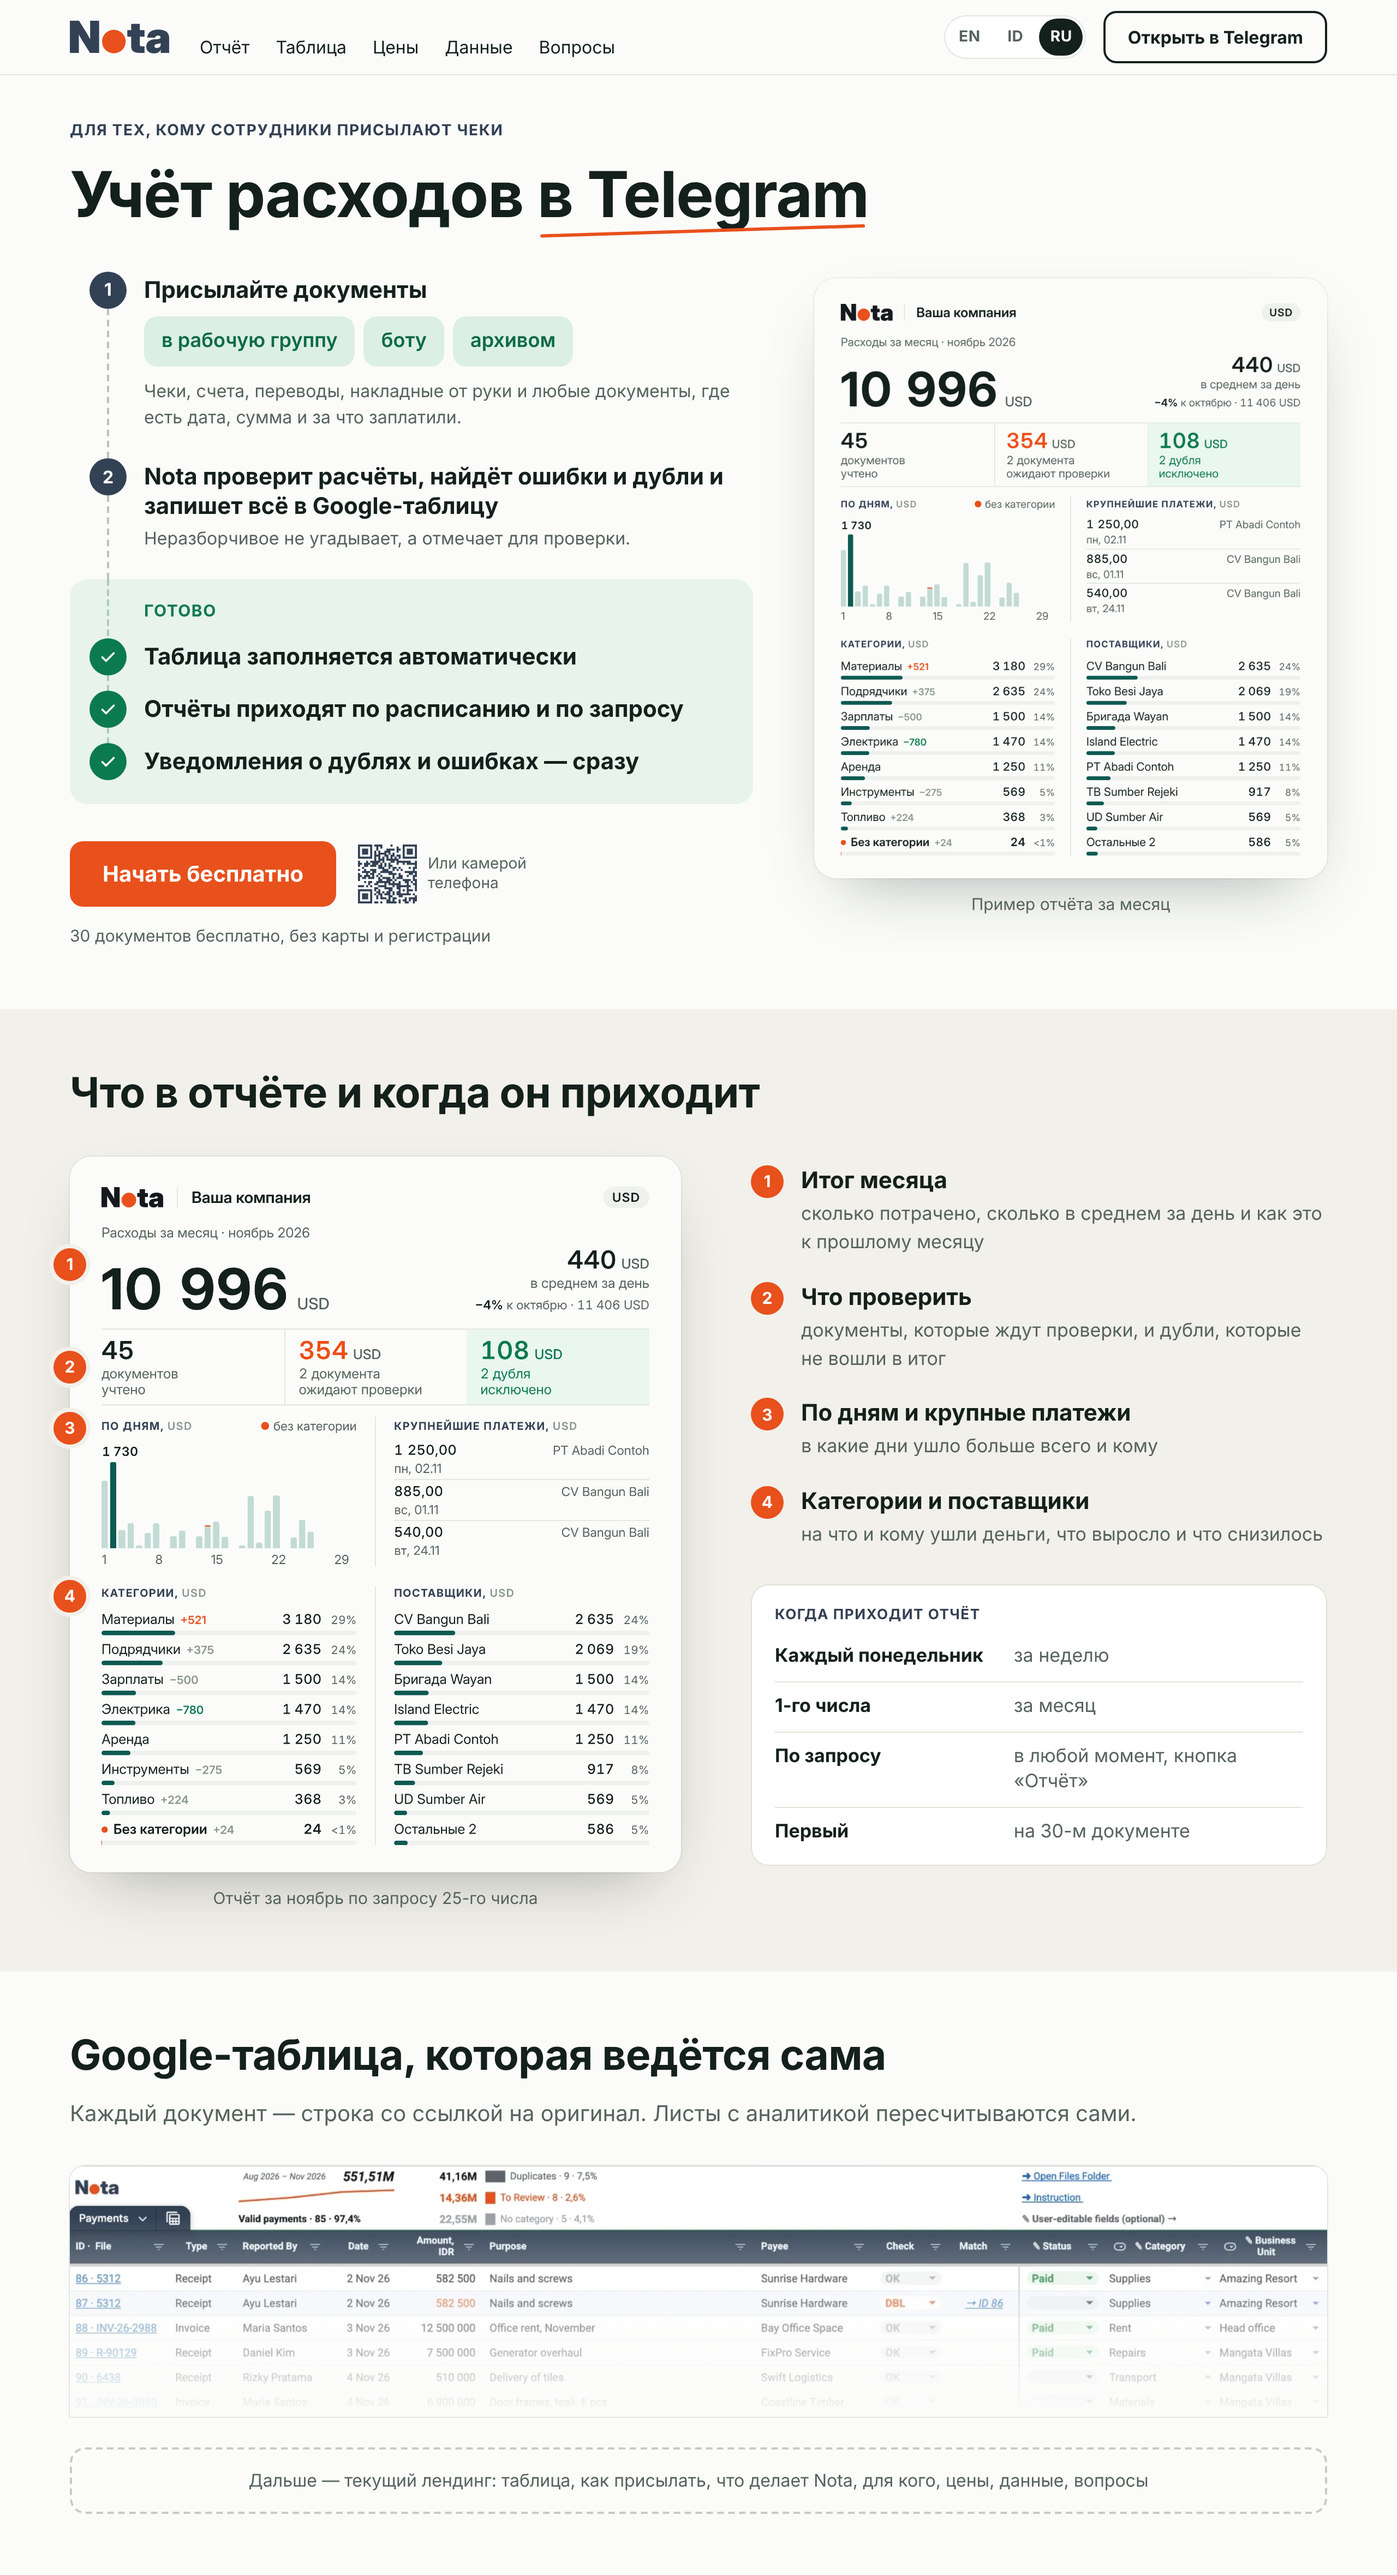
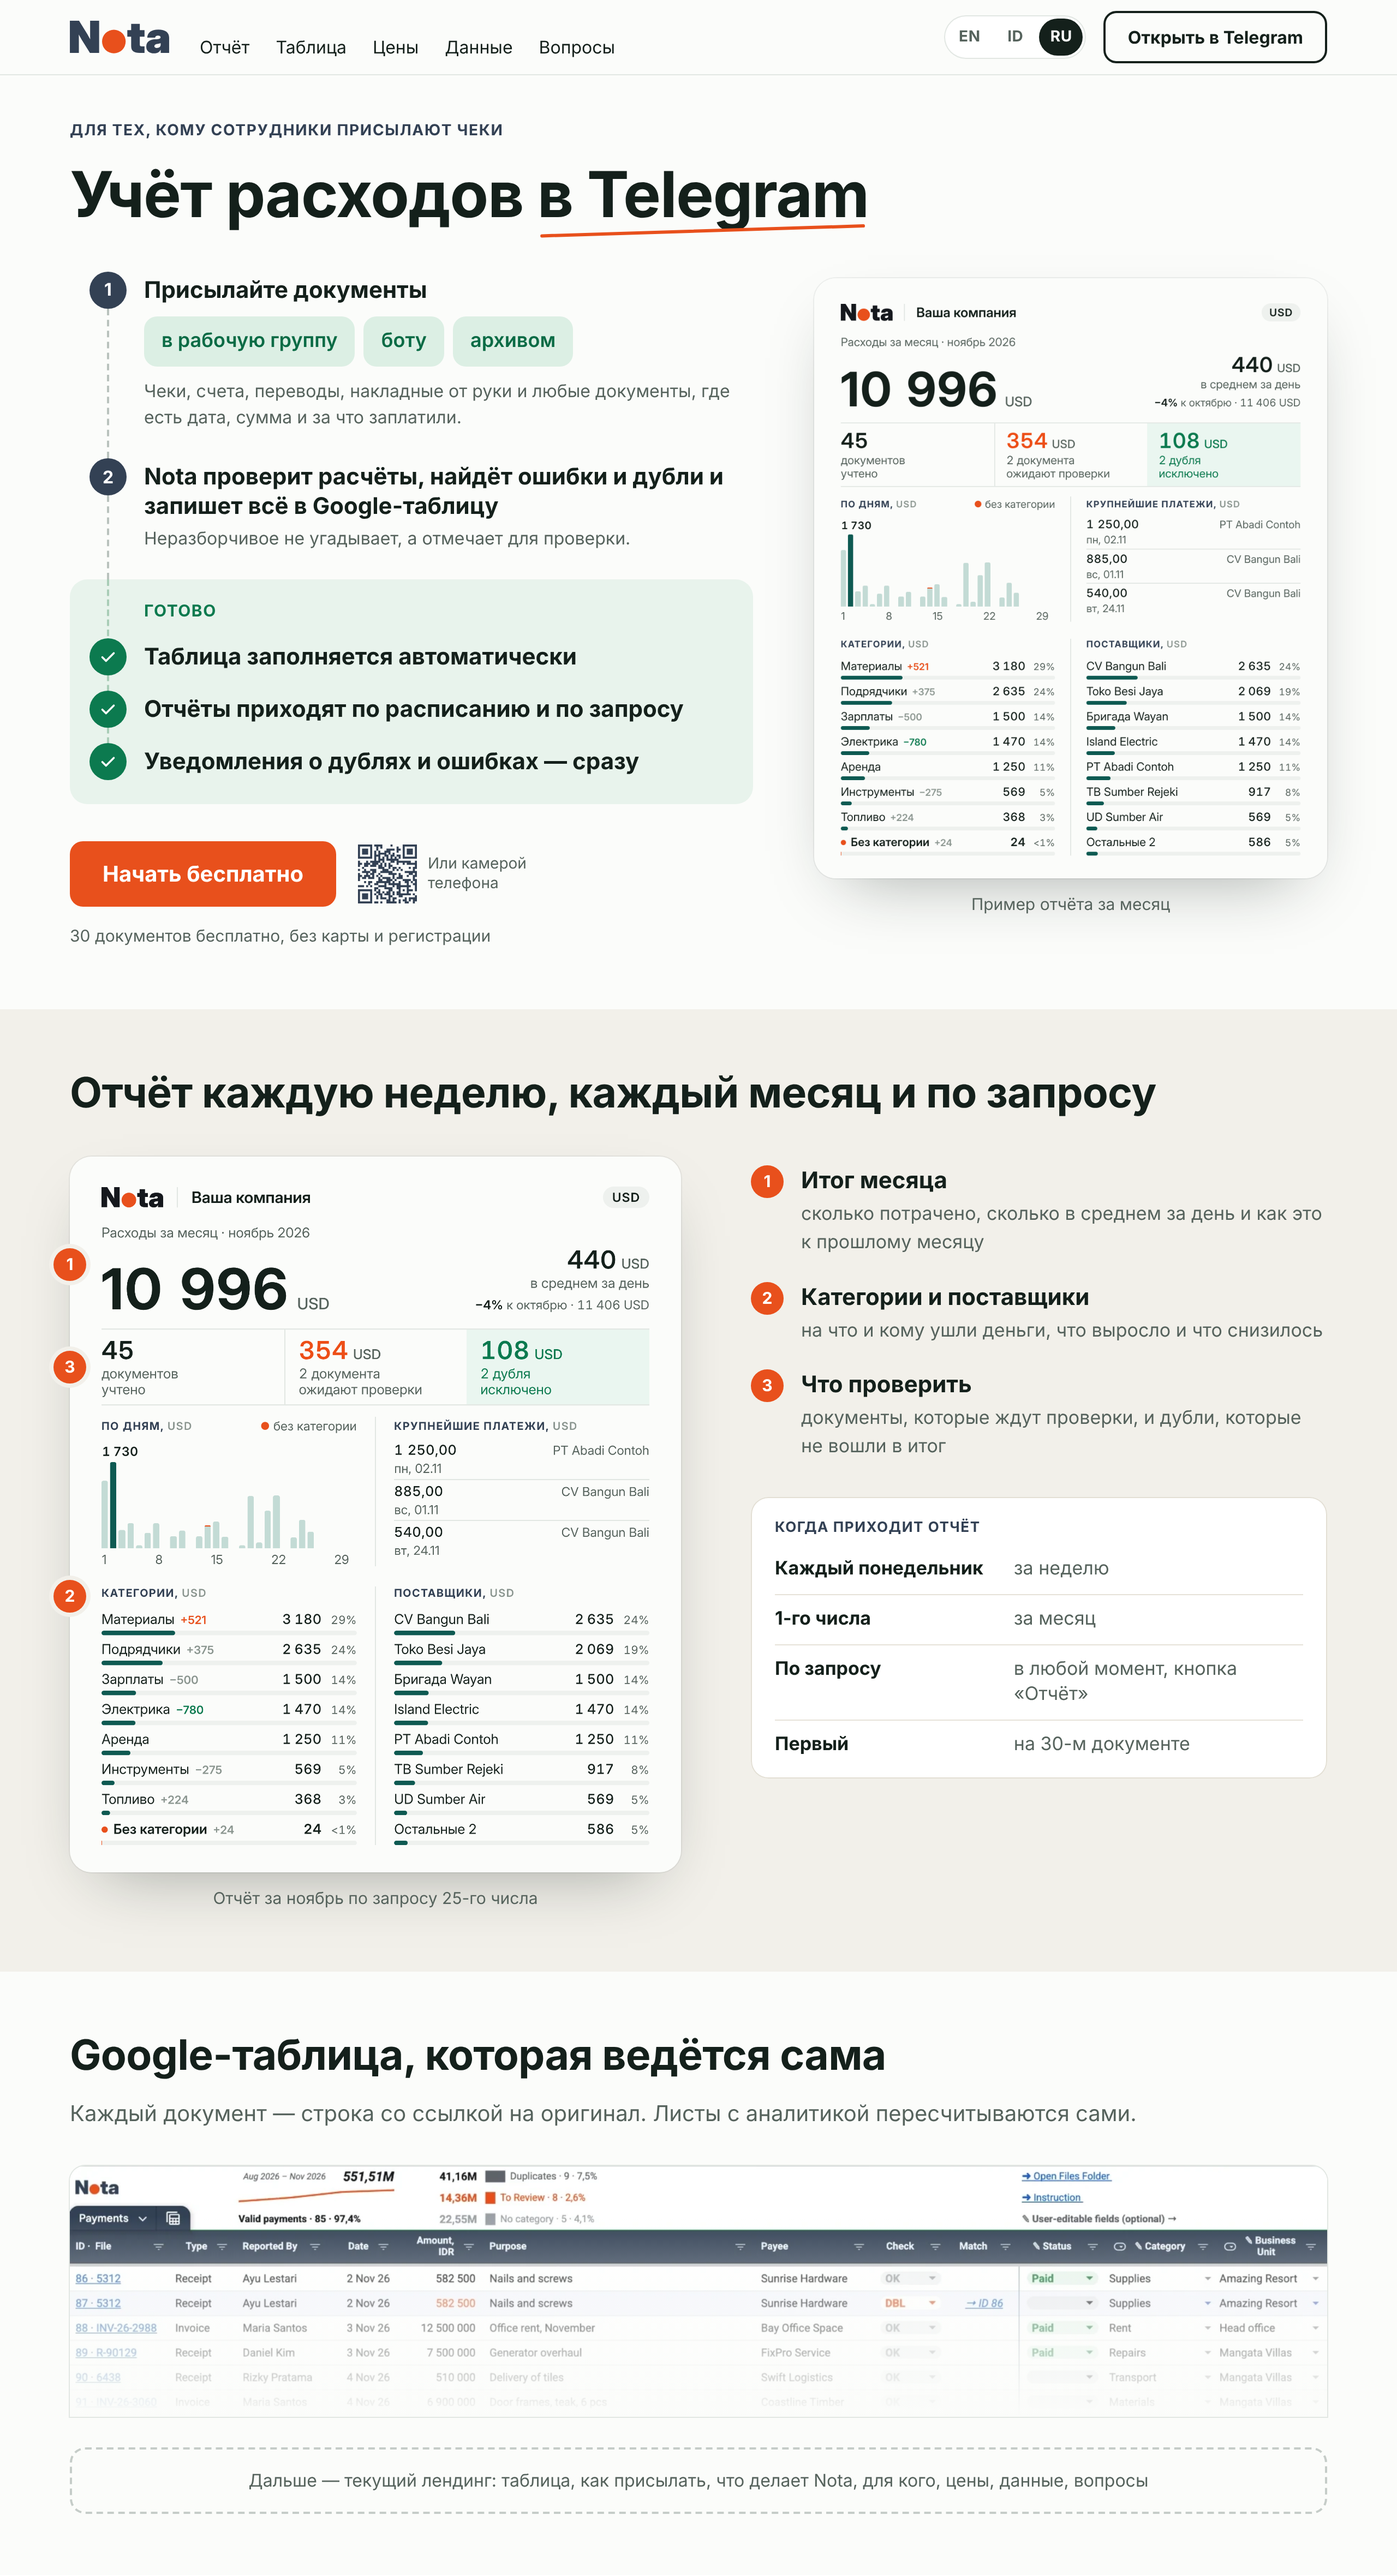
Sketch G: report notes by importance, no daily block, schedule in title
Claude-Session: https://claude.ai/code/session_01L3HhR7LSGwJtypFbeUeh92

diff --git a/founder/landing-start-sketch/g.html b/founder/landing-start-sketch/g.html
@@ -12,10 +12,10 @@
 <figure class="mk-report"><img src="month-report.png" alt="Пример отчёта за месяц" width="1080" height="1265"><figcaption>Пример отчёта за месяц</figcaption></figure>
 </div>
 </div></section><section class="section mk-sec section--paper g-rep"><div class="wrap">
-<h2>Что в отчёте и когда он приходит</h2>
+<h2>Отчёт каждую неделю, каждый месяц и по запросу</h2>
 <div class="g-rep-grid">
-<figure class="g-rep-card"><img src="month-report.png" alt="Отчёт за месяц с пояснениями" width="1080" height="1265"><span class="g-mark" style="top:84px">1</span><span class="g-mark" style="top:178px">2</span><span class="g-mark" style="top:234px">3</span><span class="g-mark" style="top:388px">4</span><figcaption>Отчёт за ноябрь по запросу 25-го числа</figcaption></figure>
-<div class="g-rep-text"><ol class="g-notes"><li><span class="g-mark g-mark--s">1</span><div><b>Итог месяца</b><span>сколько потрачено, сколько в среднем за день и как это к прошлому месяцу</span></div></li><li><span class="g-mark g-mark--s">2</span><div><b>Что проверить</b><span>документы, которые ждут проверки, и дубли, которые не вошли в итог</span></div></li><li><span class="g-mark g-mark--s">3</span><div><b>По дням и крупные платежи</b><span>в какие дни ушло больше всего и кому</span></div></li><li><span class="g-mark g-mark--s">4</span><div><b>Категории и поставщики</b><span>на что и кому ушли деньги, что выросло и что снизилось</span></div></li></ol>
+<figure class="g-rep-card"><img src="month-report.png" alt="Отчёт за месяц с пояснениями" width="1080" height="1265"><span class="g-mark" style="top:84px">1</span><span class="g-mark" style="top:388px">2</span><span class="g-mark" style="top:178px">3</span><figcaption>Отчёт за ноябрь по запросу 25-го числа</figcaption></figure>
+<div class="g-rep-text"><ol class="g-notes"><li><span class="g-mark g-mark--s">1</span><div><b>Итог месяца</b><span>сколько потрачено, сколько в среднем за день и как это к прошлому месяцу</span></div></li><li><span class="g-mark g-mark--s">2</span><div><b>Категории и поставщики</b><span>на что и кому ушли деньги, что выросло и что снизилось</span></div></li><li><span class="g-mark g-mark--s">3</span><div><b>Что проверить</b><span>документы, которые ждут проверки, и дубли, которые не вошли в итог</span></div></li></ol>
 <div class="sched"><div class="sched-title">Когда приходит отчёт</div><dl><dt>Каждый понедельник</dt><dd>за неделю</dd><dt>1-го числа</dt><dd>за месяц</dd><dt>По запросу</dt><dd>в любой момент, кнопка «Отчёт»</dd><dt>Первый</dt><dd>на 30-м документе</dd></dl></div>
 </div></div></div></section><section class="section mk-sec mk-teaser"><div class="wrap">
 <h2>Google-таблица, которая ведётся сама</h2>

diff --git a/founder/landing-start-sketch/build.py b/founder/landing-start-sketch/build.py
@@ -295,16 +295,15 @@ G = page('g', 'Вариант G — два шага, группа первой',
 
 # ---------- G: следующий блок — отчёт с пояснениями (21.11). Тот же отчёт, что справа на первом экране, крупнее и с цифрами ----------
 REP_W, REP_SCALE = 560, 560 / 1080          # позиции блоков в карточке 1080 px (замерены по month-report.html)
-REP_MARKS = [(1, 190), (2, 372), (3, 480), (4, 778)]
+REP_MARKS = [(1, 190), (2, 778), (3, 372)]   # порядок — по важности (основатель, 21.11): итог → категории и поставщики → что проверить
 REP_NOTES = [
     ('Итог месяца', 'сколько потрачено, сколько в среднем за день и как это к прошлому месяцу'),
-    ('Что проверить', 'документы, которые ждут проверки, и дубли, которые не вошли в итог'),
-    ('По дням и крупные платежи', 'в какие дни ушло больше всего и кому'),
     ('Категории и поставщики', 'на что и кому ушли деньги, что выросло и что снизилось'),
+    ('Что проверить', 'документы, которые ждут проверки, и дубли, которые не вошли в итог'),
 ]
 G_SCHED = sched([('Каждый понедельник', 'за неделю'), ('1-го числа', 'за месяц'), ('По запросу', 'в любой момент, кнопка «Отчёт»'), ('Первый', 'на 30-м документе')])
 g_report = f"""<section class="section mk-sec section--paper g-rep"><div class="wrap">
-<h2>Что в отчёте и когда он приходит</h2>
+<h2>Отчёт каждую неделю, каждый месяц и по запросу</h2>
 <div class="g-rep-grid">
 <figure class="g-rep-card"><img src="month-report.png" alt="Отчёт за месяц с пояснениями" width="1080" height="1265">""" + ''.join(
     f'<span class="g-mark" style="top:{round(y * REP_SCALE) - 15}px">{n}</span>' for n, y in REP_MARKS) + """<figcaption>Отчёт за ноябрь по запросу 25-го числа</figcaption></figure>
